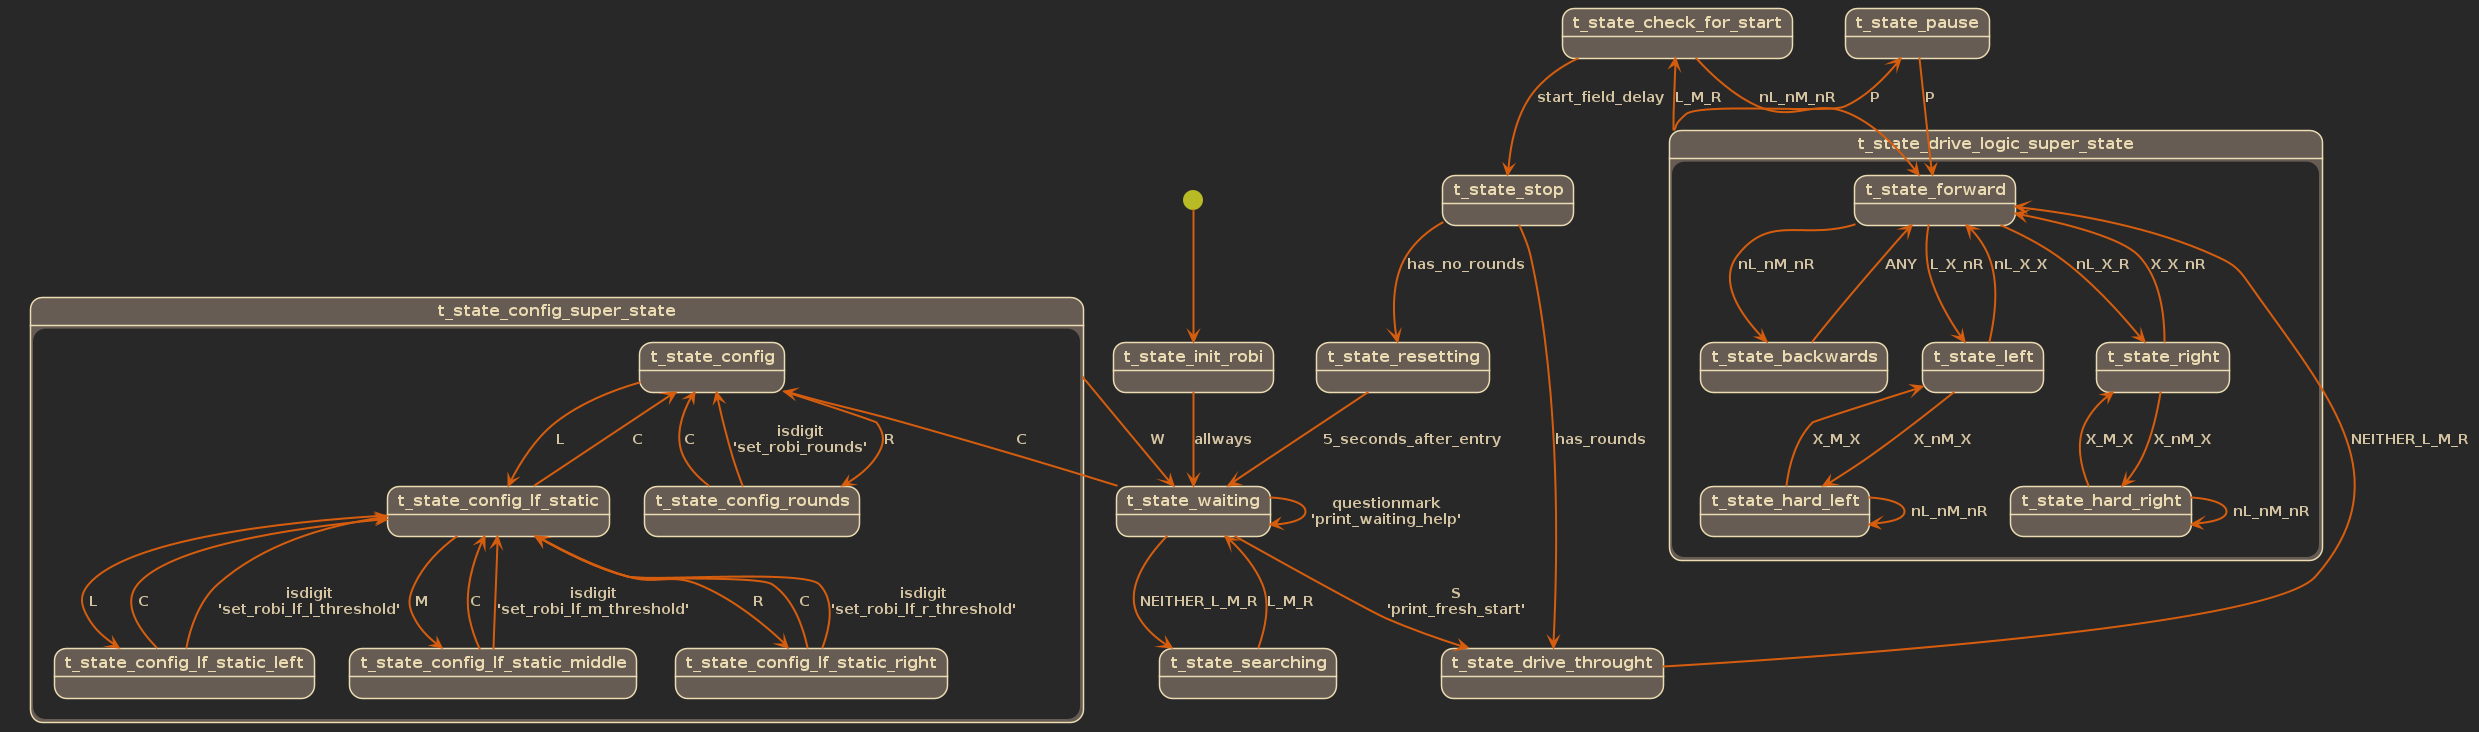
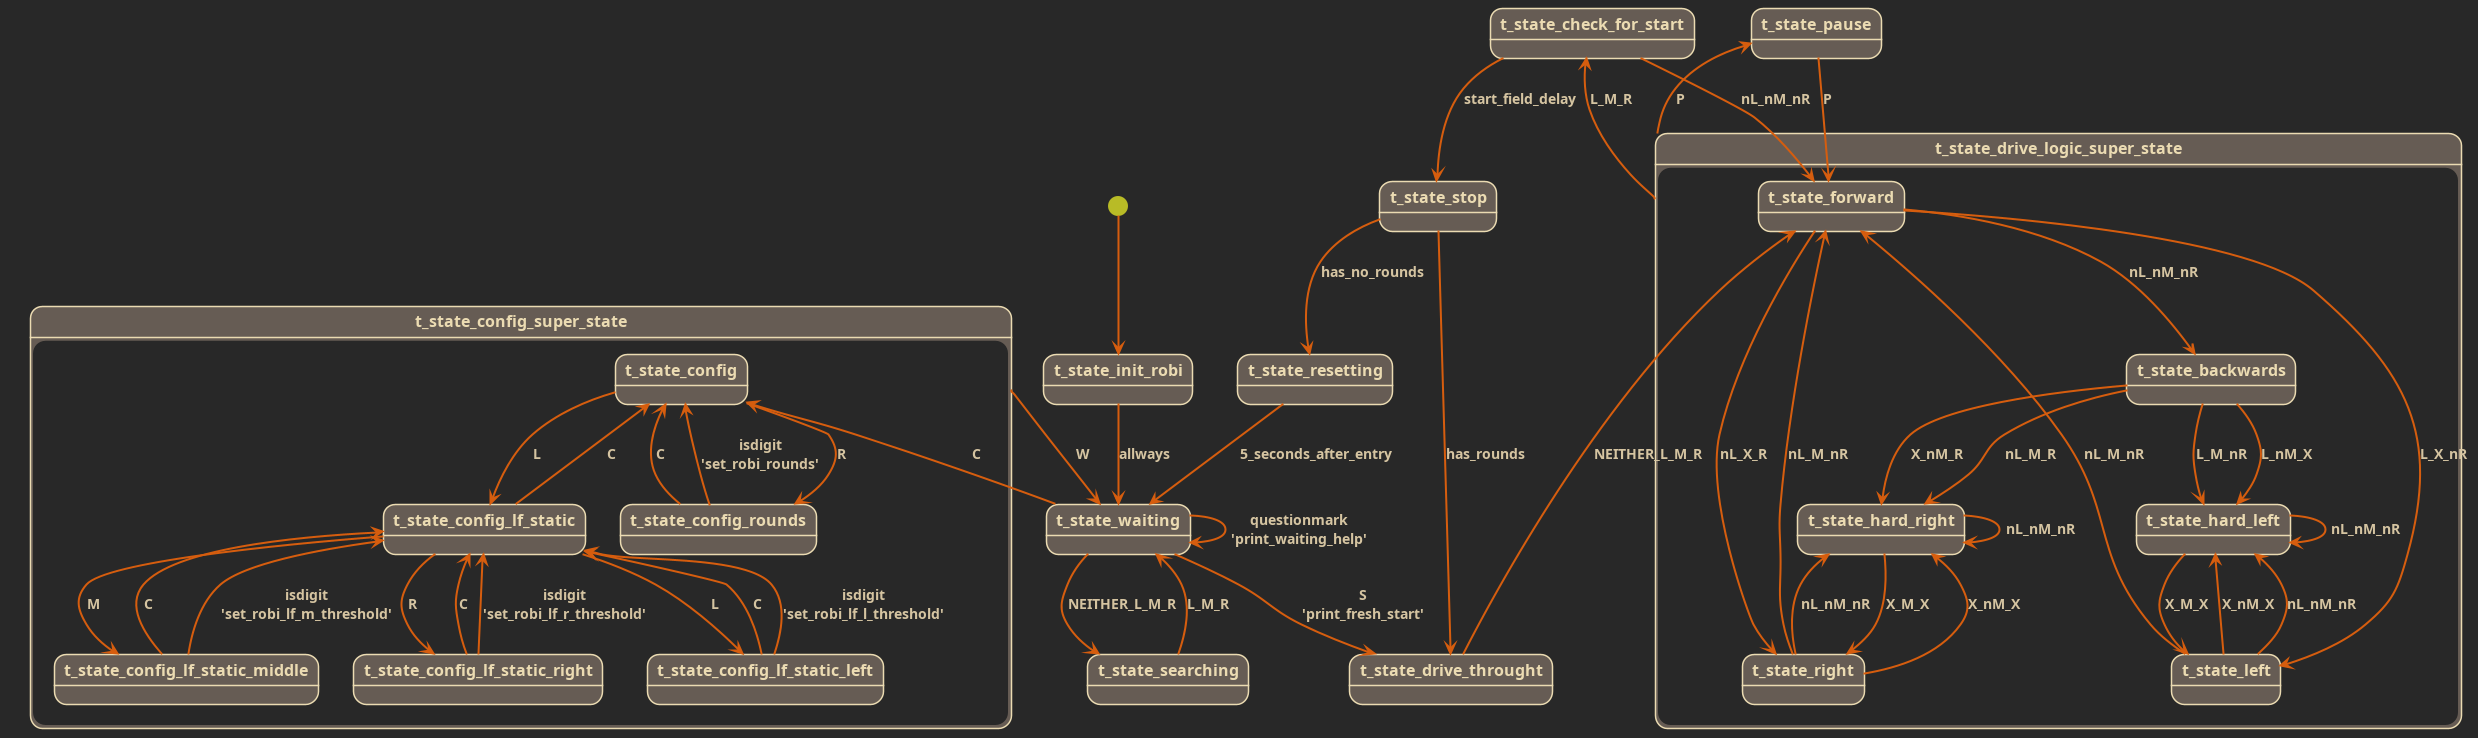
wip

diff --git a/src/roboter/states_drive.c b/src/roboter/states_drive.c
@@ -1,3 +1,7 @@
+#include <util/delay.h>
+#define LOG_LEVEL LOG_LEVEL_INFO
+#include "tools/logger.h"
+
 #include "roboter/states_drive.h"
 #include "hardware/clock.h"
 #include "hardware/engine.h"
@@ -9,8 +13,6 @@
 #include "configuration/robot_settings.h"
 #include "configuration/serial_messages.h"
 
-// #define LOG_LEVEL LOG_LEVEL_INFO
-#include "tools/logger.h"
 #include "tools/math_helper_functions.h"
 #include <stdint.h>
 
@@ -82,7 +84,7 @@ void backwards_on_update(t_state *inst __attribute__((unused))) {
   if (CLOCK_get_milliseconds() - *inst->ui32p_state_entry_time_ms > BACKWAD_DELAY_TRESHOLD) {
 
     ENGINE_set_duty_cicle(ENGINE_PWM_LEFT, SETTING_ENGINE_PWM_POWER_BACKWARD);
-    ENGINE_set_duty_cicle(ENGINE_PWM_RIGHT, SETTING_ENGINE_PWM_POWER_BACKWARD);
+    ENGINE_set_duty_cicle(ENGINE_PWM_RIGHT, CALCULATE_PERCENT(SETTING_ENGINE_PWM_POWER_BACKWARD, 80));
 
     // Left motors forward
     UNSET_BIT(ENGINE_HB_IN1_PORT, ENGINE_HB_IN1_BIT);
@@ -90,6 +92,7 @@ void backwards_on_update(t_state *inst __attribute__((unused))) {
     // Right motors forward
     SET_BIT(ENGINE_HB_IN3_PORT, ENGINE_HB_IN3_BIT);
     UNSET_BIT(ENGINE_HB_IN4_PORT, ENGINE_HB_IN4_BIT);
+    _delay_ms(20);
   }
   return;
 }
@@ -103,8 +106,8 @@ void left_on_entry(t_state *inst __attribute__((unused))) {
                         SETTING_ENGINE_PWM_POWER_TURN_FORWARD);  // set to 7/8 speed
 
   // Left motors backwards
-  UNSET_BIT(ENGINE_HB_IN1_PORT, ENGINE_HB_IN1_BIT);
-  SET_BIT(ENGINE_HB_IN2_PORT, ENGINE_HB_IN2_BIT);
+  SET_BIT(ENGINE_HB_IN1_PORT, ENGINE_HB_IN1_BIT);
+  UNSET_BIT(ENGINE_HB_IN2_PORT, ENGINE_HB_IN2_BIT);
   // Right motors forward
   UNSET_BIT(ENGINE_HB_IN3_PORT, ENGINE_HB_IN3_BIT);
   SET_BIT(ENGINE_HB_IN4_PORT, ENGINE_HB_IN4_BIT);
@@ -142,8 +145,8 @@ void right_on_entry(t_state *inst __attribute__((unused))) {
   SET_BIT(ENGINE_HB_IN1_PORT, ENGINE_HB_IN1_BIT);
   UNSET_BIT(ENGINE_HB_IN2_PORT, ENGINE_HB_IN2_BIT);
   // Right motors backwards
-  SET_BIT(ENGINE_HB_IN3_PORT, ENGINE_HB_IN3_BIT);
-  UNSET_BIT(ENGINE_HB_IN4_PORT, ENGINE_HB_IN4_BIT);
+  UNSET_BIT(ENGINE_HB_IN3_PORT, ENGINE_HB_IN3_BIT);
+  SET_BIT(ENGINE_HB_IN4_PORT, ENGINE_HB_IN4_BIT);
   return;
 }
 

diff --git a/src/roboter/conditions_LF.c b/src/roboter/conditions_LF.c
@@ -77,9 +77,57 @@ uint8_t condition_LF_X_X_nR(t_state *inst __attribute__((unused)),
   return 0;
 }
 
+uint8_t condition_LF_L_or_R(t_state *inst __attribute__((unused)),
+                                   void *vp_dto __attribute__((unused))) {
+  if (LF_get_state(LF_LEFT) || LF_get_state(LF_RIGHT)) {
+    return 1;
+  }
+  return 0;
+}
+
 uint8_t condition_LF_X_M_X(t_state *inst __attribute__((unused)),
                                       void *vp_dto __attribute__((unused))) {
   if (LF_get_state(LF_MIDDLE)) {
+    return 1;
+  }
+  return 0;
+}
+
+uint8_t condition_LF_L_nM_X(t_state *inst __attribute__((unused)),
+                                       void *vp_dto __attribute__((unused))) {
+  if (LF_get_state(LF_LEFT) && !LF_get_state(LF_MIDDLE)) {
+    return 1;
+  }
+  return 0;
+}
+
+uint8_t condition_LF_L_M_nR(t_state *inst __attribute__((unused)),
+                                       void *vp_dto __attribute__((unused))) {
+  if (LF_get_states() == (LF_detection_state)LF_LM) {
+    return 1;
+  }
+  return 0;
+}
+
+uint8_t condition_LF_X_nM_R(t_state *inst __attribute__((unused)),
+                                       void *vp_dto __attribute__((unused))) {
+  if (LF_get_state(LF_RIGHT) && !LF_get_state(LF_MIDDLE)) {
+    return 1;
+  }
+  return 0;
+}
+
+uint8_t condition_LF_nL_M_R(t_state *inst __attribute__((unused)),
+                                       void *vp_dto __attribute__((unused))) {
+  if (LF_get_states() == (LF_detection_state)LF_MR) {
+    return 1;
+  }
+  return 0;
+}
+
+uint8_t condition_LF_nL_M_nR(t_state *inst __attribute__((unused)),
+                                       void *vp_dto __attribute__((unused))) {
+  if (LF_get_states() == (LF_detection_state)LF_MR) {
     return 1;
   }
   return 0;

diff --git a/include/configuration/robot_settings.h b/include/configuration/robot_settings.h
@@ -23,22 +23,22 @@
 /** @brief Default threshold for the left line follower
  * @note range 0-1024
  */
-#define SETTING_LF_LEFT_DEFAULT_THRESHOLD 150
+#define SETTING_LF_LEFT_DEFAULT_THRESHOLD 300
 
 /** @brief Default threshold for the middle line follower
  * @note range 0-1024
  */
-#define SETTING_LF_MIDDLE_DEFAULT_THRESHOLD 500
+#define SETTING_LF_MIDDLE_DEFAULT_THRESHOLD 400
 
 /** @brief Default threshold for the right line follower
  * @note range 0-1024
  */
-#define SETTING_LF_RIGHT_DEFAULT_THRESHOLD 150
+#define SETTING_LF_RIGHT_DEFAULT_THRESHOLD 400
 
 // Driving
 
 /** @brief Delay before start field is detected to prevent detection in corners */
-#define SETTING_START_FIELD_DELAY_MS 170
+#define SETTING_START_FIELD_DELAY_MS 180
 
 /** @brief Delay before backward is detected to prevent deadlock in corners */
 #define BACKWAD_DELAY_TRESHOLD 20
@@ -54,12 +54,12 @@
 /** @brief Defines forward power
  * @note Used for Speed while driving forward
  */
-#define SETTING_ENGINE_PWM_POWER_FORWARD CALCULATE_PERCENT(SETTING_ENGINE_PWM_POWER_MAX, 90)
+#define SETTING_ENGINE_PWM_POWER_FORWARD CALCULATE_PERCENT(SETTING_ENGINE_PWM_POWER_MAX, 60)
 
 /** @brief Defines backward power
  * @note Used for Speed while driving backward
  */
-#define SETTING_ENGINE_PWM_POWER_BACKWARD CALCULATE_PERCENT(SETTING_ENGINE_PWM_POWER_MAX, 60)
+#define SETTING_ENGINE_PWM_POWER_BACKWARD CALCULATE_PERCENT(SETTING_ENGINE_PWM_POWER_MAX, 40)
 
 /** @brief Defines turn speed of the outside wheel */
 #define SETTING_ENGINE_PWM_POWER_TURN_FORWARD CALCULATE_PERCENT(SETTING_ENGINE_PWM_POWER_MAX, 90)

diff --git a/src/main.c b/src/main.c
@@ -131,18 +131,23 @@ t_state_machine *configure_state_machine() {
   STATE_add_edge(t_state_forward, condition_LF_nL_nM_nR, t_state_backwards);
 
   // backward
-  STATE_add_edge(t_state_backwards, condition_LF_ANY, t_state_forward);
+  STATE_add_edge(t_state_backwards, condition_LF_L_nM_X, t_state_hard_left);
+  STATE_add_edge(t_state_backwards, condition_LF_X_nM_R, t_state_hard_right);
+  STATE_add_edge(t_state_backwards, condition_LF_L_M_nR, t_state_hard_left);
+  STATE_add_edge(t_state_backwards, condition_LF_nL_M_R, t_state_hard_right);
 
   // left
   STATE_add_edge(t_state_left, condition_LF_X_nM_X, t_state_hard_left);
-  STATE_add_edge(t_state_left, condition_LF_nL_X_X, t_state_forward);
+  STATE_add_edge(t_state_left, condition_LF_nL_nM_nR, t_state_hard_left);
+  STATE_add_edge(t_state_left, condition_LF_nL_M_nR, t_state_forward);
 
   STATE_add_edge(t_state_hard_left, condition_LF_nL_nM_nR, t_state_hard_left);
   STATE_add_edge(t_state_hard_left, condition_LF_X_M_X, t_state_left);
 
   // right
   STATE_add_edge(t_state_right, condition_LF_X_nM_X, t_state_hard_right);
-  STATE_add_edge(t_state_right, condition_LF_X_X_nR, t_state_forward);
+  STATE_add_edge(t_state_right, condition_LF_nL_nM_nR, t_state_hard_right);
+  STATE_add_edge(t_state_right, condition_LF_nL_M_nR, t_state_forward);
 
   STATE_add_edge(t_state_hard_right, condition_LF_nL_nM_nR, t_state_hard_right);
   STATE_add_edge(t_state_hard_right, condition_LF_X_M_X, t_state_right);

diff --git a/include/roboter/conditions_LF.h b/include/roboter/conditions_LF.h
@@ -115,9 +115,27 @@ uint8_t condition_LF_X_M_X(t_state *inst __attribute__((unused)),
                            void *vp_dto __attribute__((unused)));
 
 uint8_t condition_LF_nL_X_X(t_state *inst __attribute__((unused)),
-                           void *vp_dto __attribute__((unused)));
+                            void *vp_dto __attribute__((unused)));
 
 uint8_t condition_LF_X_X_nR(t_state *inst __attribute__((unused)),
-                           void *vp_dto __attribute__((unused)));
+                            void *vp_dto __attribute__((unused)));
+
+uint8_t condition_LF_L_or_R(t_state *inst __attribute__((unused)),
+                            void *vp_dto __attribute__((unused)));
+
+uint8_t condition_LF_L_nM_X(t_state *inst __attribute__((unused)),
+                            void *vp_dto __attribute__((unused)));
+
+uint8_t condition_LF_L_M_nR(t_state *inst __attribute__((unused)),
+                            void *vp_dto __attribute__((unused)));
+
+uint8_t condition_LF_X_nM_R(t_state *inst __attribute__((unused)),
+                            void *vp_dto __attribute__((unused)));
+
+uint8_t condition_LF_nL_M_R(t_state *inst __attribute__((unused)),
+                            void *vp_dto __attribute__((unused)));
+
+uint8_t condition_LF_nL_M_nR(t_state *inst __attribute__((unused)),
+                             void *vp_dto __attribute__((unused)));
 
 #endif  // CONDITIONS_LF_H
